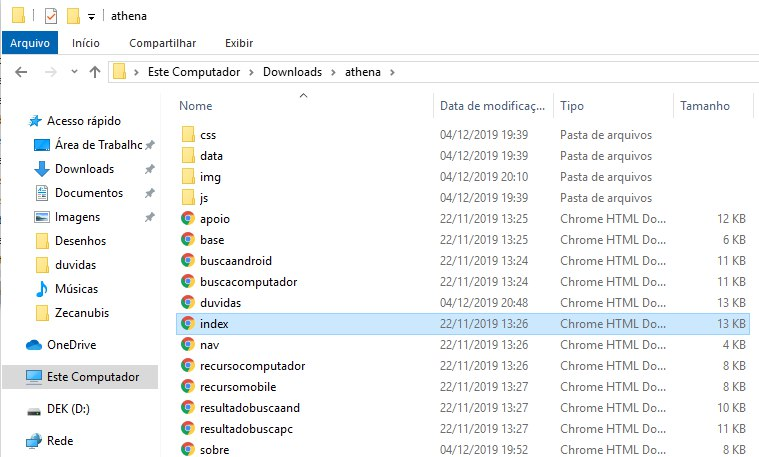
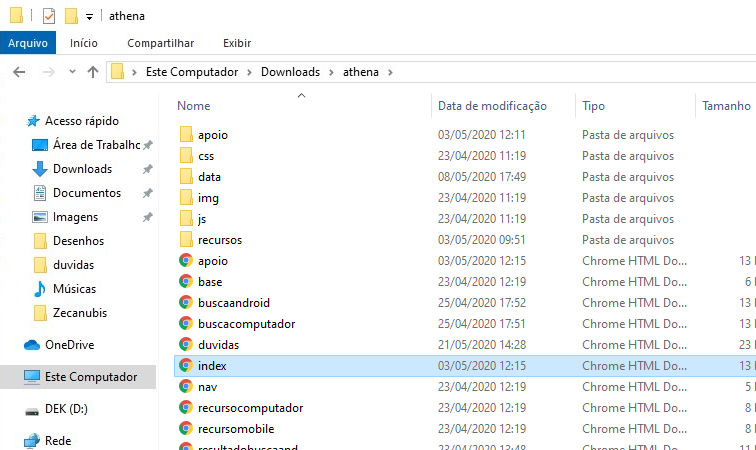
Atualizacao duvidas

diff --git a/duvidas.html b/duvidas.html
@@ -162,16 +162,20 @@
 										    </div>
 										    <div id="collapse3" class="panel-collapse collapse in">
 										    <div class="panel-body corpoTexto">
+										    	<br>Seguir passo a passo, com imagens correspondentes:
 										    	<ol><br>
 										    		<li>Clique em “Início” e role a tela até chegar na opção de fazer download do repositório. Clique em “Download”.</li><br>
 										    		<img src="img/duvidas/image4.png" class="imgTexto"><br><br><br><br><br>
-										    		<li>Utilize um descompactador de arquivos. Sugerimos o <a href="https://www.peazip.org/">PeaZip</a> ou <a href="https://www.win-rar.com/predownload.html?&L=0&Version=32bit" target="_blank" rel="noopener noreferrer">WinRAR</a>.</li><br><br>
-										    		<li>Clique com o botão direito do mouse no arquivo baixado e selecione a opção “Extrair aqui” para extrair a pasta com o repositório completo.</li>
-										    		<br><img src="img/duvidas/image5.png" class="imgTexto">
-										    		<br><img src="img/duvidas/image6.png" class="imgTexto"><br><br><br><br><br>
-										    		<li>Abra a pasta e clique duas vezes no arquivo de nome “index”.</li>
+										    		<li>Utilize um descompactador de arquivos. Sugerimos o <a href="https://www.peazip.org/">PeaZip</a> ou <a href="https://www.win-rar.com/predownload.html?&L=0&Version=32bit" target="_blank" rel="noopener noreferrer">WinRAR</a>.</li><br><br><br>
+										    		<li>Clique com o botão direito do mouse no arquivo baixado.</li>
+										    		<br><img src="img/duvidas/image5.png" class="imgTexto"><br><br><br><br>
+										    		<li>Selecione a opção “Extrair aqui” para extrair a pasta com o repositório completo.</li>
+										    		<br><img src="img/duvidas/image6.png" class="imgTexto"><br><br><br><br>
+										    		<li>Abra a pasta e clique duas vezes no arquivo de nome “index”. Esta página possibilitará a visualização de todas as informações do repositório de forma off-line.</li>
 										    		<br><img src="img/duvidas/image7.png" class="imgTexto"><br><br><br>
-										    		<li>Pronto! Você já possui o arquivo com todo o repositório em seu computador.</li>
+										    		<li>Caso queira salvar a pasta de um ou de todos os recursos do repositório, selecione a pasta "Recursos/recurso" e, em seguida, escolha a disciplina e o ano desejado.</li>
+										    		<br><img src="img/duvidas/image9.png" class="imgTexto"><br><br><br>
+										    		<li>Pronto! Você já tem acesso ao repositório e aos recursos de forma off-line.</li><br>
 										    	</ol>
 										    </div>
 										    </div>
